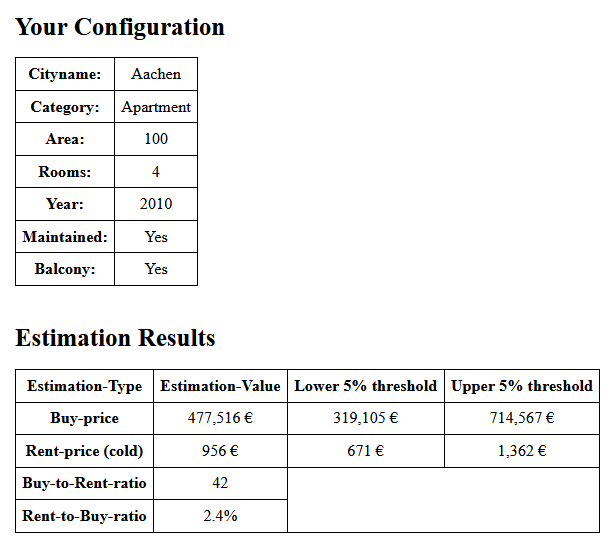
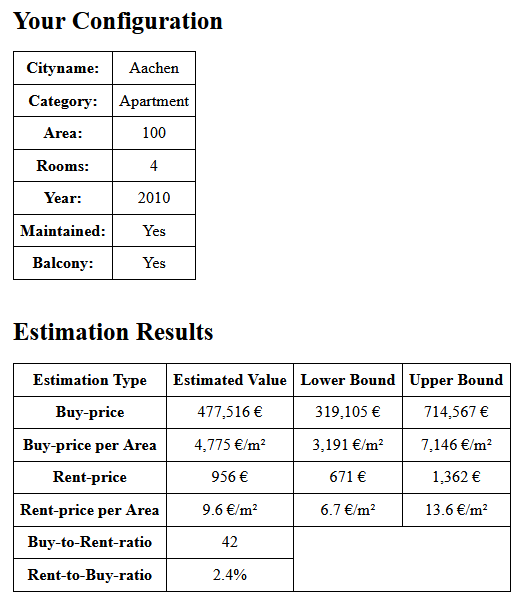
added price per area and hints

Changed region(s): [[0.0, 0.0, 0.979, 0.9855]]

diff --git a/app.py b/app.py
@@ -375,10 +375,10 @@ def predict():
   
                 <table>
                     <tr>
-                        <th>Estimation-Type</th>
-                        <th>Estimation-Value</th>
-                        <th>Lower 5% threshold</th>
-                        <th>Upper 5% threshold</th>
+                        <th>Estimation Type</th>
+                        <th>Estimated Value</th>
+                        <th>Lower Bound</th>
+                        <th>Upper Bound</th>
                     </tr>
                     <tr>
                         <th>Buy-price</th>
@@ -387,10 +387,22 @@ def predict():
                         <td>{:,.0f} €</td>
                     </tr>
                     <tr>
-                        <th>Rent-price (cold)</th>
+                        <th>Buy-price per Area</th>
+                        <td>{:,.0f} €/m\u00b2</td>
+                        <td>{:,.0f} €/m\u00b2</td>
+                        <td>{:,.0f} €/m\u00b2</td>
+                    </tr>
+                    <tr>
+                        <th>Rent-price</th>
                         <td>{:,.0f} €</td>
                         <td>{:,.0f} €</td>
                         <td>{:,.0f} €</td>
+                    </tr>
+                    <tr>
+                        <th>Rent-price per Area</th>
+                        <td>{:,.1f} €/m\u00b2</td>
+                        <td>{:,.1f} €/m\u00b2</td>
+                        <td>{:,.1f} €/m\u00b2</td>
                     </tr>
                     <tr>
                         <th>Buy-to-Rent-ratio</th>
@@ -402,6 +414,13 @@ def predict():
                     </tr>
                 </table>
 
+                <h1 style="margin-top: 1.5em;">Hints</h1>
+                
+                <ul>
+                  <li>Monthly cold Rent-price is estimated and shown, while the shown Buy-to-Rent-ratio and Rent-to-Buy-ratio are based on yearly cold Rent price</li>
+                  <li>Lower and Upper Bound define a simplified 90% Confidence Intervall for the actual price: it is expected that round about 5% of actual prices are below the Lower and round about 5% are above the Upper Bound</li>
+                </ul>
+                            
                 <h1 style="margin-top: 1.5em;">More Information</h1>
                             
                 This Buy & Rent Price Estimator App is part of my project:
@@ -421,9 +440,19 @@ def predict():
                         results['y_predicted_buy'],
                         results['y_min_90%_buy'],
                         results['y_max_90%_buy'],
+                        
+                        results['y_predicted_buy'] / x_dict['Area'],
+                        results['y_min_90%_buy'] / x_dict['Area'],
+                        results['y_max_90%_buy'] / x_dict['Area'],
+                        
                         results['y_predicted_rent'],
                         results['y_min_90%_rent'],
                         results['y_max_90%_rent'],
+                        
+                        results['y_predicted_rent'] / x_dict['Area'],
+                        results['y_min_90%_rent'] / x_dict['Area'],
+                        results['y_max_90%_rent'] / x_dict['Area'],
+                        
                         results['y_predicted_buy']/(12 * results['y_predicted_rent']),
                         (12 * results['y_predicted_rent'])/results['y_predicted_buy']*100
                         )
